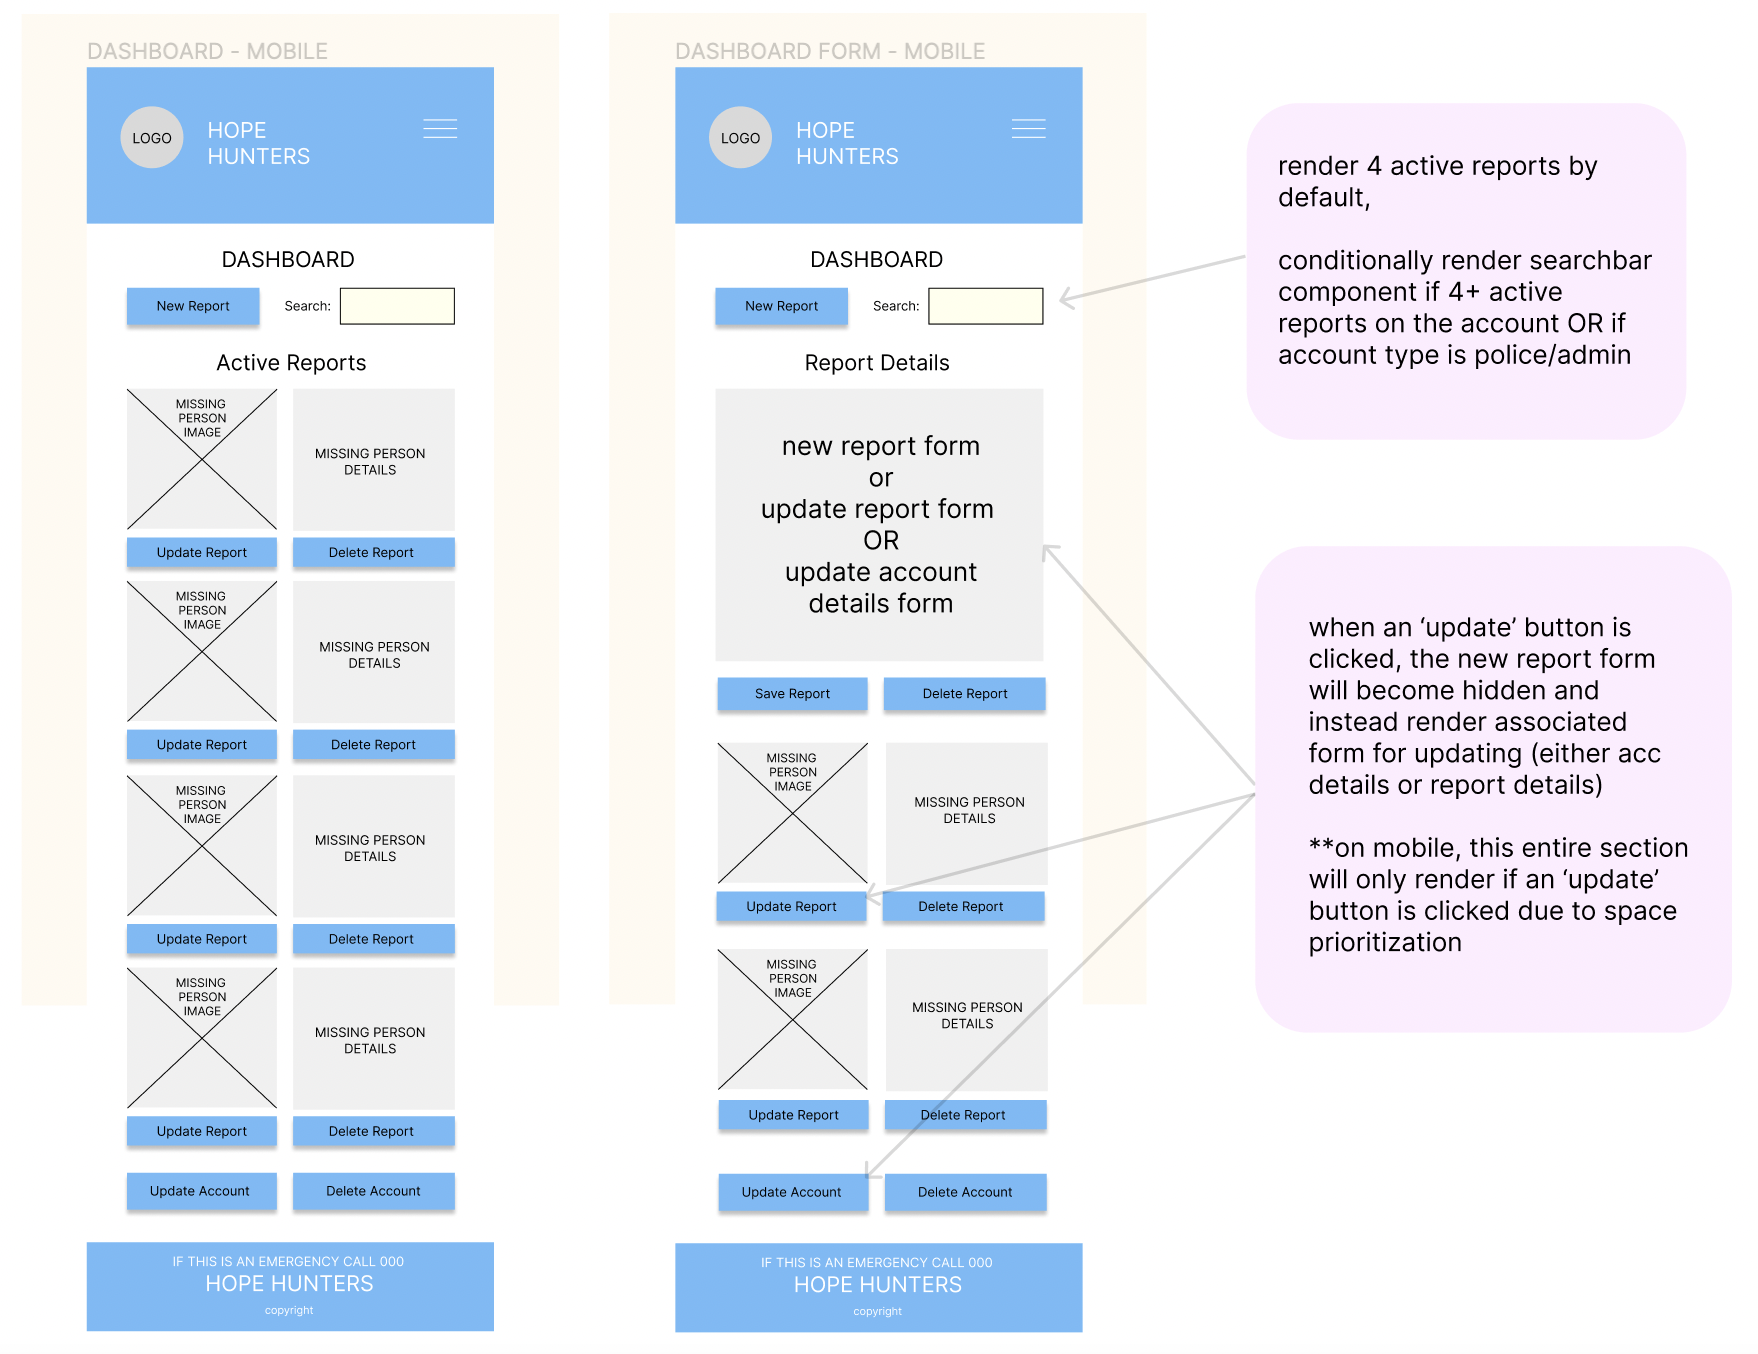
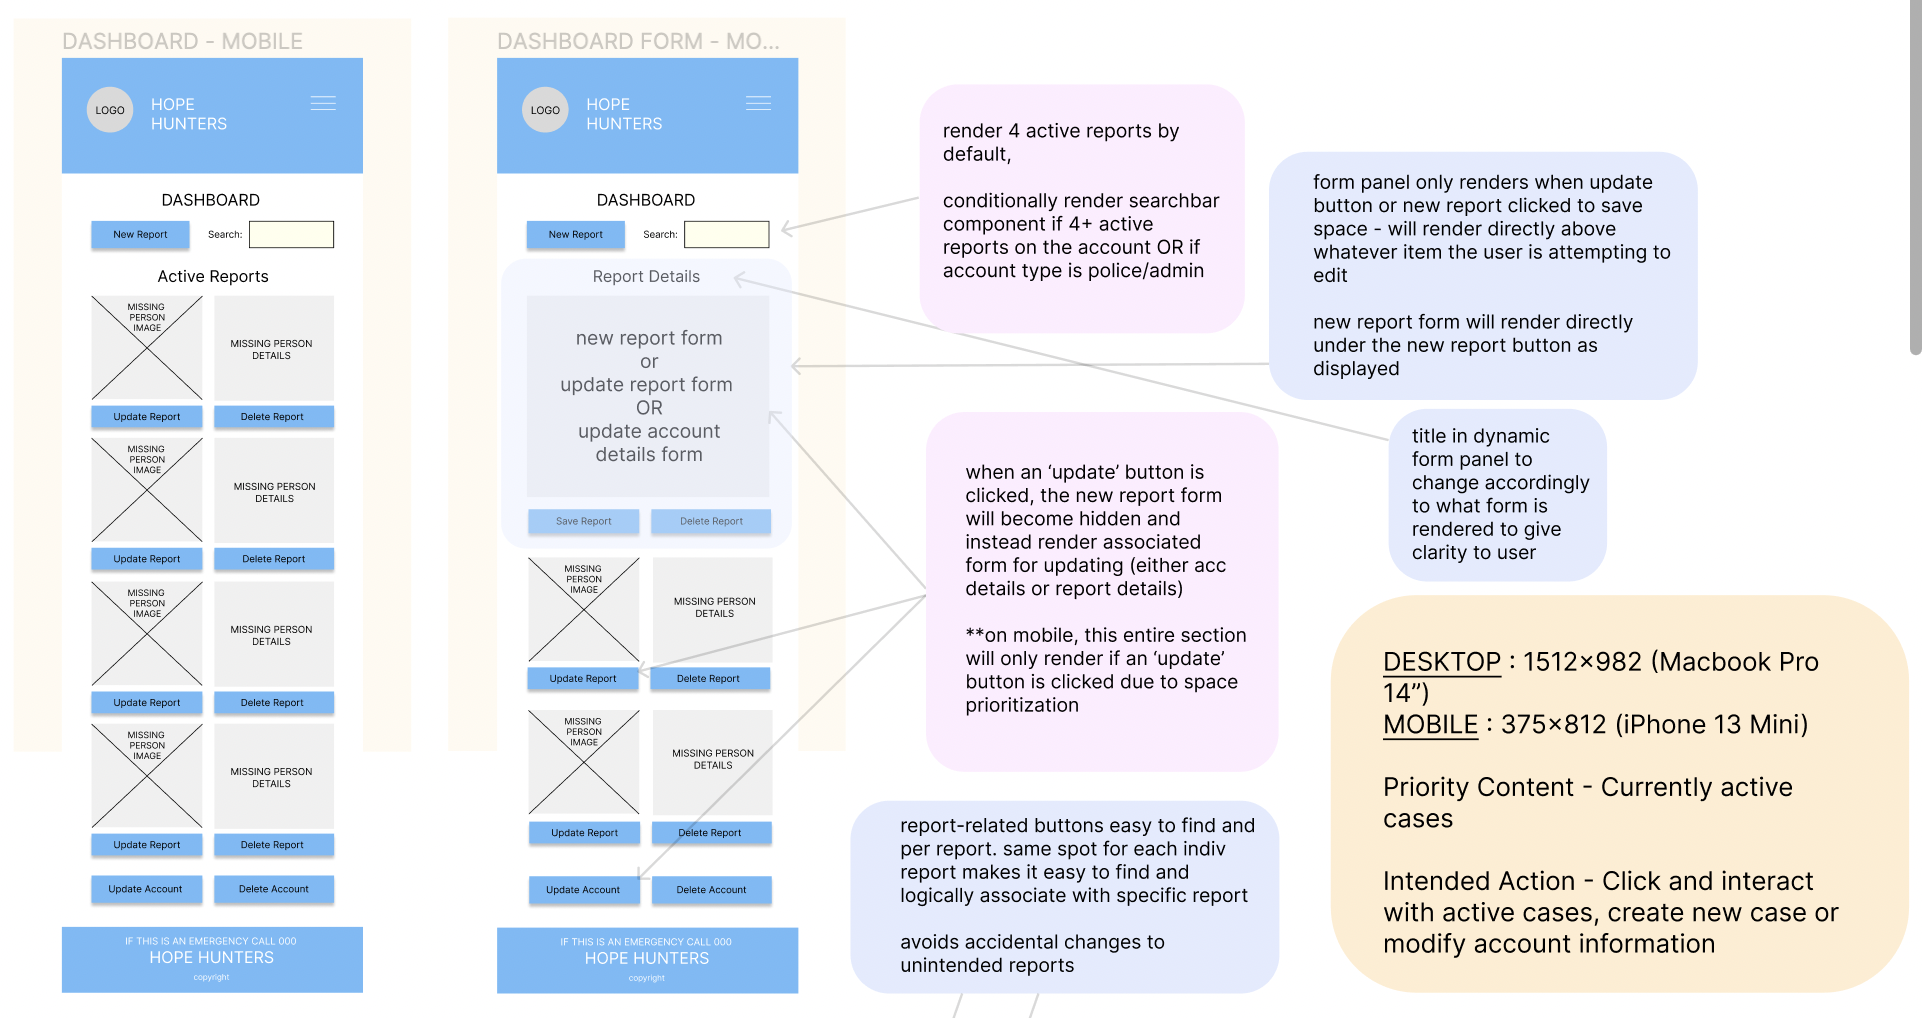
docs: Added all detailed wireframes with added styling decision blurbs

diff --git a/README.md b/README.md
@@ -152,7 +152,7 @@ Login page:
 ![login page wireframes](./docs/login-page.png)
 
 Hamburger Menu for mobile nav only:
-![login page wireframes](./docs/hamburger-mobile.png)
+![hamburger menu wireframe](./docs/hamburger-mobile.png)
 
 Dashboard:
 ![dashboard wireframes](./docs/dashboard-mobile.png)
